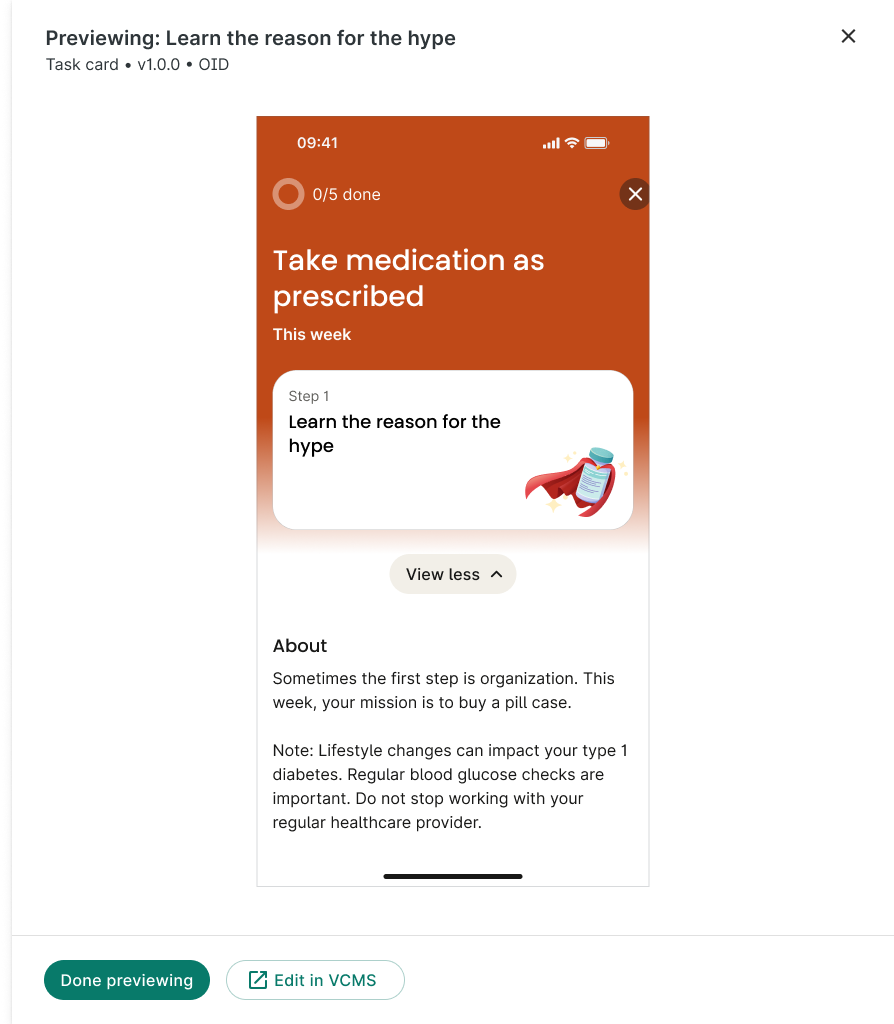
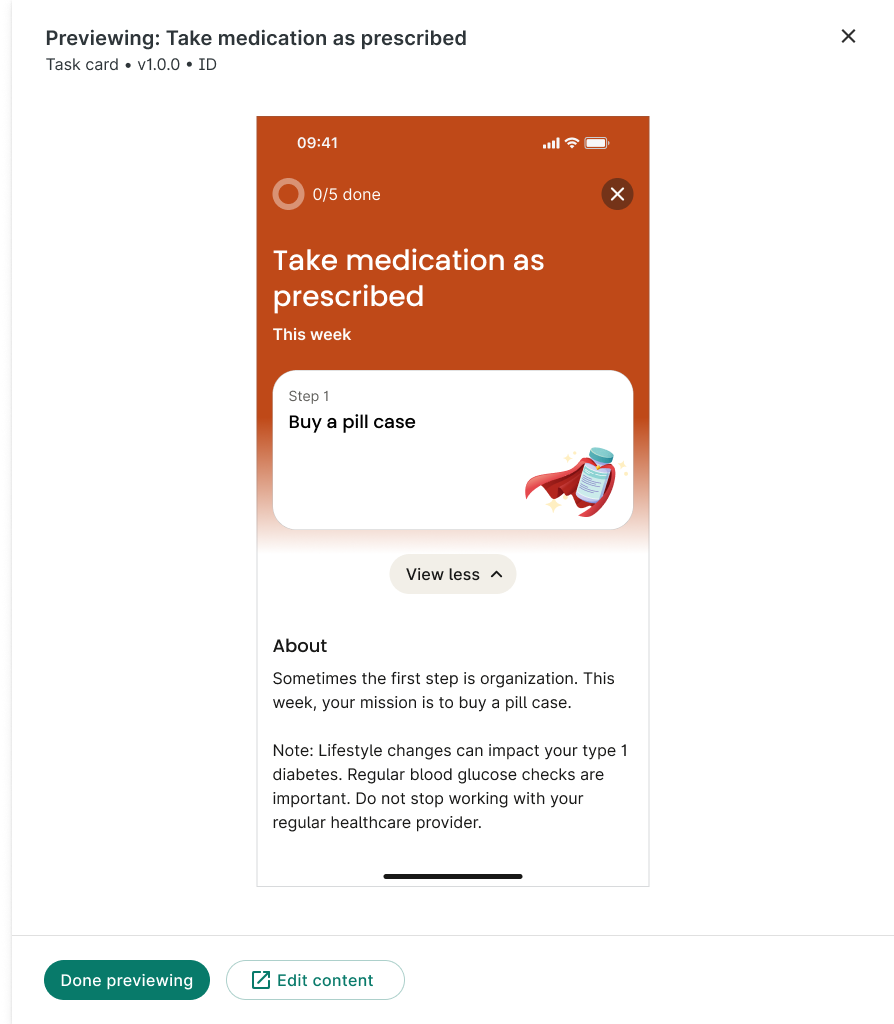
Replace Workbench frame sequence with library scroll hover effect.
Add banner and library assets, mobile scroll fallback, and optional serve port parameter.

diff --git a/styles.css b/styles.css
@@ -303,61 +303,68 @@ main > .project:first-child {
 
 /* Workbench storyboard project — hover steps 0→5, ends on home_workbench_animation_6.png */
 .project__media--workbench-hover .workbench-hover__stack {
+  --library-scroll-y: 0px;
   position: relative;
-  display: inline-block;
-  max-width: 100%;
-  line-height: 0;
-  /* visible: a later frame can be taller than frame 1; hidden was clipping the last image */
-  overflow: visible;
-  border-radius: var(--media-radius);
-}
-
-.project__media--workbench-hover .workbench-hover__frame--base {
-  position: relative;
-  z-index: 0;
   display: block;
-  width: auto;
+  width: 100%;
   max-width: 100%;
-  max-height: min(68vh, 620px);
-  height: auto;
-  object-fit: contain;
-  object-position: top center;
-  opacity: 0;
-  transition: opacity 1ms linear;
+  aspect-ratio: 1200 / 800;
+  line-height: 0;
+  overflow: hidden;
+  border-radius: var(--media-radius);
+  background: #fff;
+  isolation: isolate;
 }
 
-.project__media--workbench-hover .workbench-hover__frame--base.is-workbench-visible {
-  opacity: 1;
+.project__media--workbench-hover .workbench-hover__stack::after {
+  content: "";
+  position: absolute;
+  inset: 0;
+  border: 1px solid var(--line);
+  border-radius: var(--media-radius);
+  pointer-events: none;
+  z-index: 3;
 }
 
-.project__media--workbench-hover .workbench-hover__frame:not(.workbench-hover__frame--base) {
+.project__media--workbench-hover .workbench-hover__banner {
   position: absolute;
   left: 0;
   top: 0;
+  display: block;
   width: 100%;
   height: auto;
-  max-height: min(68vh, 620px);
   object-fit: contain;
   object-position: top center;
-  pointer-events: none;
-  opacity: 0;
-  z-index: 0;
-  transition: opacity 1ms linear;
+  max-height: none;
+  z-index: 2;
+  border-radius: 0;
 }
 
-.project__media--workbench-hover .workbench-hover__frame.is-workbench-visible {
-  opacity: 1;
-  z-index: 2;
+.project__media--workbench-hover .workbench-hover__library {
+  position: absolute;
+  left: 50%;
+  top: 36%;
+  display: block;
+  width: 90%;
+  height: auto;
+  transform: translate(-50%, 0);
+  object-fit: contain;
+  object-position: top center;
+  max-height: none;
+  z-index: 1;
+  border-radius: 0;
+  transition: transform 1800ms cubic-bezier(0.22, 1, 0.36, 1);
+  will-change: transform;
 }
 
-.project__media--workbench-hover .workbench-hover__frame--base.is-workbench-visible {
-  z-index: 2;
+.project__media--workbench-hover:hover .workbench-hover__library {
+  transform: translate(-50%, calc(-1 * var(--library-scroll-y)));
 }
 
 @media (prefers-reduced-motion: reduce) {
-  .project__media--workbench-hover .workbench-hover__frame,
-  .project__media--workbench-hover .workbench-hover__frame--base {
-    transition-duration: 1ms;
+  .project__media--workbench-hover .workbench-hover__banner,
+  .project__media--workbench-hover .workbench-hover__library {
+    transition: none;
   }
 }
 
@@ -876,6 +883,10 @@ main > .project:first-child {
    */
   .project__media--canvas-hover.project__media--interaction-done .canvas-hover__full {
     opacity: 1;
+  }
+
+  .project__media--workbench-hover.project__media--interaction-done .workbench-hover__library {
+    transform: translate(-50%, calc(-1 * var(--library-scroll-y)));
   }
 
   .project__media--canvas-hover.project__media--interaction-done .canvas-hover__preview {

diff --git a/index.html b/index.html
@@ -29,66 +29,23 @@
   <main>
     <article class="project">
       <div class="container project__inner">
-        <div class="project__media project__media--workbench-hover" aria-label="Workbench preview. Hover to step through frames.">
+        <div class="project__media project__media--workbench-hover" aria-label="Workbench preview.">
           <div class="workbench-hover__stack">
             <img
-              class="workbench-hover__frame workbench-hover__frame--base is-workbench-visible"
-              data-workbench-frame="0"
-              src="home/home_workbench_animation_1.png"
+              class="workbench-hover__library"
+              src="home/home_workbench_library.png"
               alt=""
               width="1200"
               height="800"
               loading="lazy"
             />
             <img
-              class="workbench-hover__frame"
-              data-workbench-frame="1"
-              src="home/home_workbench_animation_2.png"
+              class="workbench-hover__banner"
+              src="home/home_workbench_banner.png"
               alt=""
               width="1200"
               height="800"
               loading="lazy"
-              aria-hidden="true"
-            />
-            <img
-              class="workbench-hover__frame"
-              data-workbench-frame="2"
-              src="home/home_workbench_animation_3.png"
-              alt=""
-              width="1200"
-              height="800"
-              loading="lazy"
-              aria-hidden="true"
-            />
-            <img
-              class="workbench-hover__frame"
-              data-workbench-frame="3"
-              src="home/home_workbench_animation_4.png"
-              alt=""
-              width="1200"
-              height="800"
-              loading="lazy"
-              aria-hidden="true"
-            />
-            <img
-              class="workbench-hover__frame"
-              data-workbench-frame="4"
-              src="home/home_workbench_animation_5.png"
-              alt=""
-              width="1200"
-              height="800"
-              loading="lazy"
-              aria-hidden="true"
-            />
-            <img
-              class="workbench-hover__frame"
-              data-workbench-frame="5"
-              src="home/home_workbench_animation_6.png"
-              alt=""
-              width="1200"
-              height="800"
-              loading="lazy"
-              aria-hidden="true"
             />
           </div>
         </div>

diff --git a/main.js b/main.js
@@ -214,13 +214,14 @@ function projectCopyForMedia(mediaEl) {
 }
 
 /**
- * CSS-only hover effects (canvas, COVID stack, SHR zoom, SDOH zoom): on narrow viewports,
+ * CSS-only hover effects (workbench library, canvas, COVID stack, SHR zoom, SDOH zoom): on narrow viewports,
  * add a class when the project *text* block nears the viewport — once — mirroring :hover in CSS.
  */
 function initCssHoverFallbackOnScroll() {
   if (window.matchMedia("(prefers-reduced-motion: reduce)").matches) return;
 
   const selectors = [
+    ".project__media--workbench-hover",
     ".project__media--canvas-hover",
     ".project__media--c19-stack",
     ".project__media--shr-hover",
@@ -362,9 +363,53 @@ function initWorkbenchHoverSequence() {
   MOBILE_INTERACTION_MQ.addEventListener("change", bindWorkbenchInteraction);
 }
 
+function initWorkbenchLibraryScroll() {
+  const root = document.querySelector(".project__media--workbench-hover");
+  const stack = root?.querySelector(".workbench-hover__stack");
+  const library = root?.querySelector(".workbench-hover__library");
+  if (!root || !stack || !library) return;
+
+  let resizeObserver = null;
+
+  function measureScrollDistance() {
+    const stackHeight = stack.clientHeight;
+    const topPx = Number.parseFloat(getComputedStyle(library).top) || 0;
+    const renderedWidth = library.clientWidth;
+    const naturalWidth = library.naturalWidth || Number(library.getAttribute("width")) || renderedWidth;
+    const naturalHeight = library.naturalHeight || Number(library.getAttribute("height")) || library.clientHeight;
+    if (!stackHeight || !renderedWidth || !naturalWidth || !naturalHeight) {
+      stack.style.setProperty("--library-scroll-y", "0px");
+      return;
+    }
+
+    const renderedHeight = renderedWidth * (naturalHeight / naturalWidth);
+    const visibleHeight = Math.max(0, stackHeight - topPx);
+    const overflowHeight = Math.max(0, renderedHeight - visibleHeight);
+    stack.style.setProperty("--library-scroll-y", `${overflowHeight}px`);
+  }
+
+  function queueMeasure() {
+    requestAnimationFrame(measureScrollDistance);
+  }
+
+  if (library.complete) {
+    queueMeasure();
+  } else {
+    library.addEventListener("load", queueMeasure, { once: true });
+  }
+
+  window.addEventListener("resize", queueMeasure, { passive: true });
+
+  if ("ResizeObserver" in window) {
+    resizeObserver = new ResizeObserver(queueMeasure);
+    resizeObserver.observe(stack);
+  }
+}
+
 document.addEventListener("DOMContentLoaded", () => {
   initHeroLineReveal();
   initWorkbenchHoverSequence();
+  initWorkbenchLibraryScroll();
   initCssHoverFallbackOnScroll();
   window.addEventListener("resize", debouncedHeroSplit, { passive: true });
 